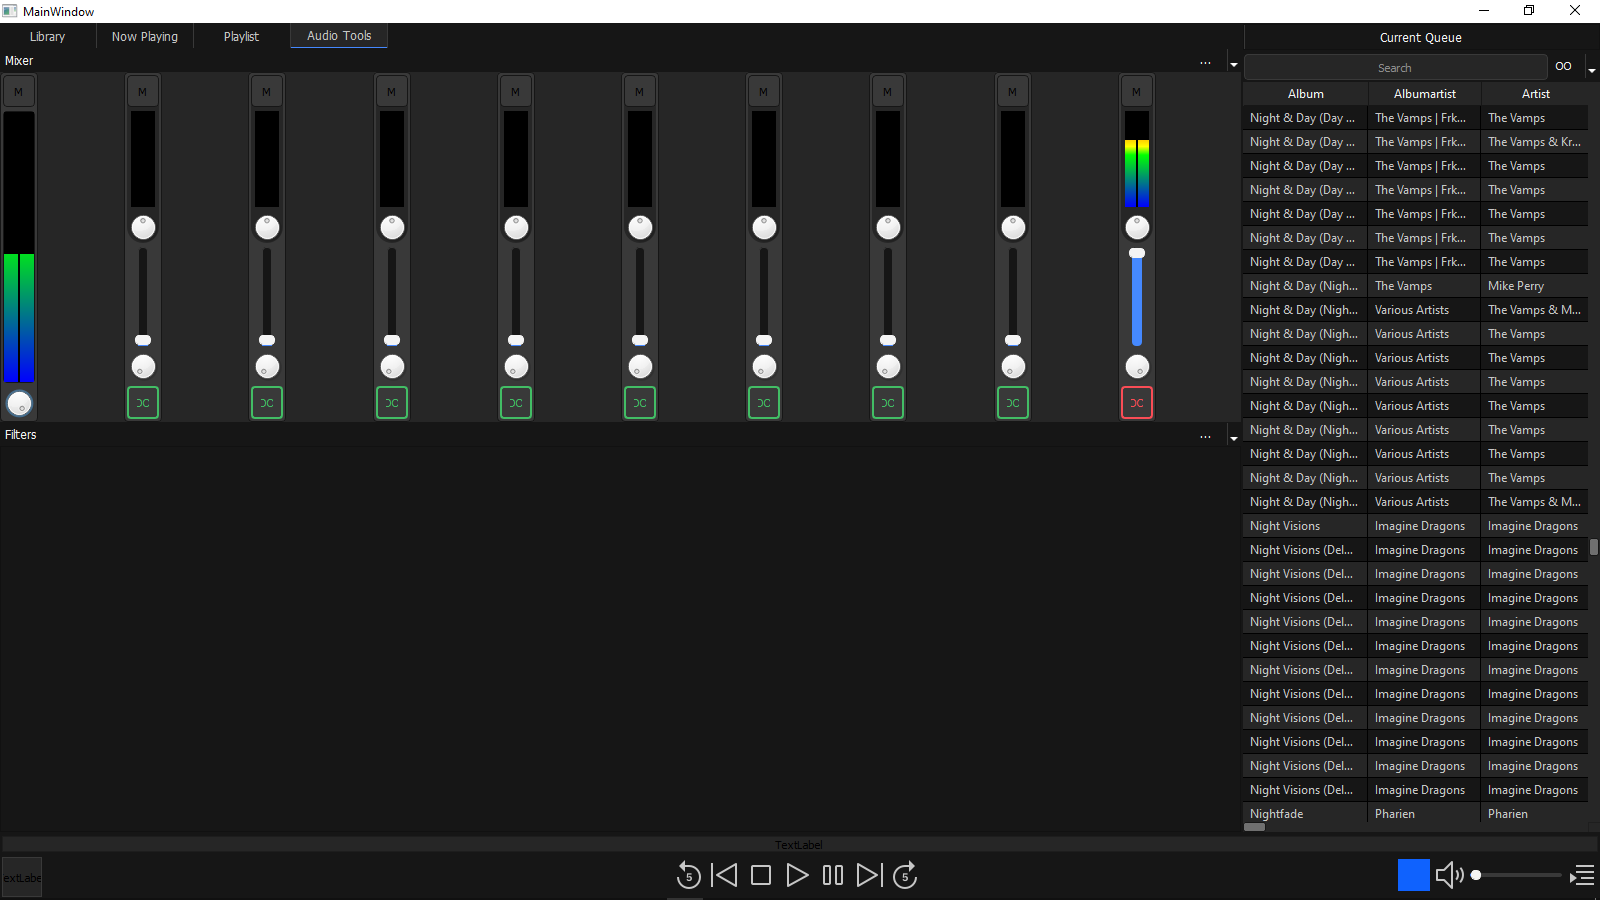
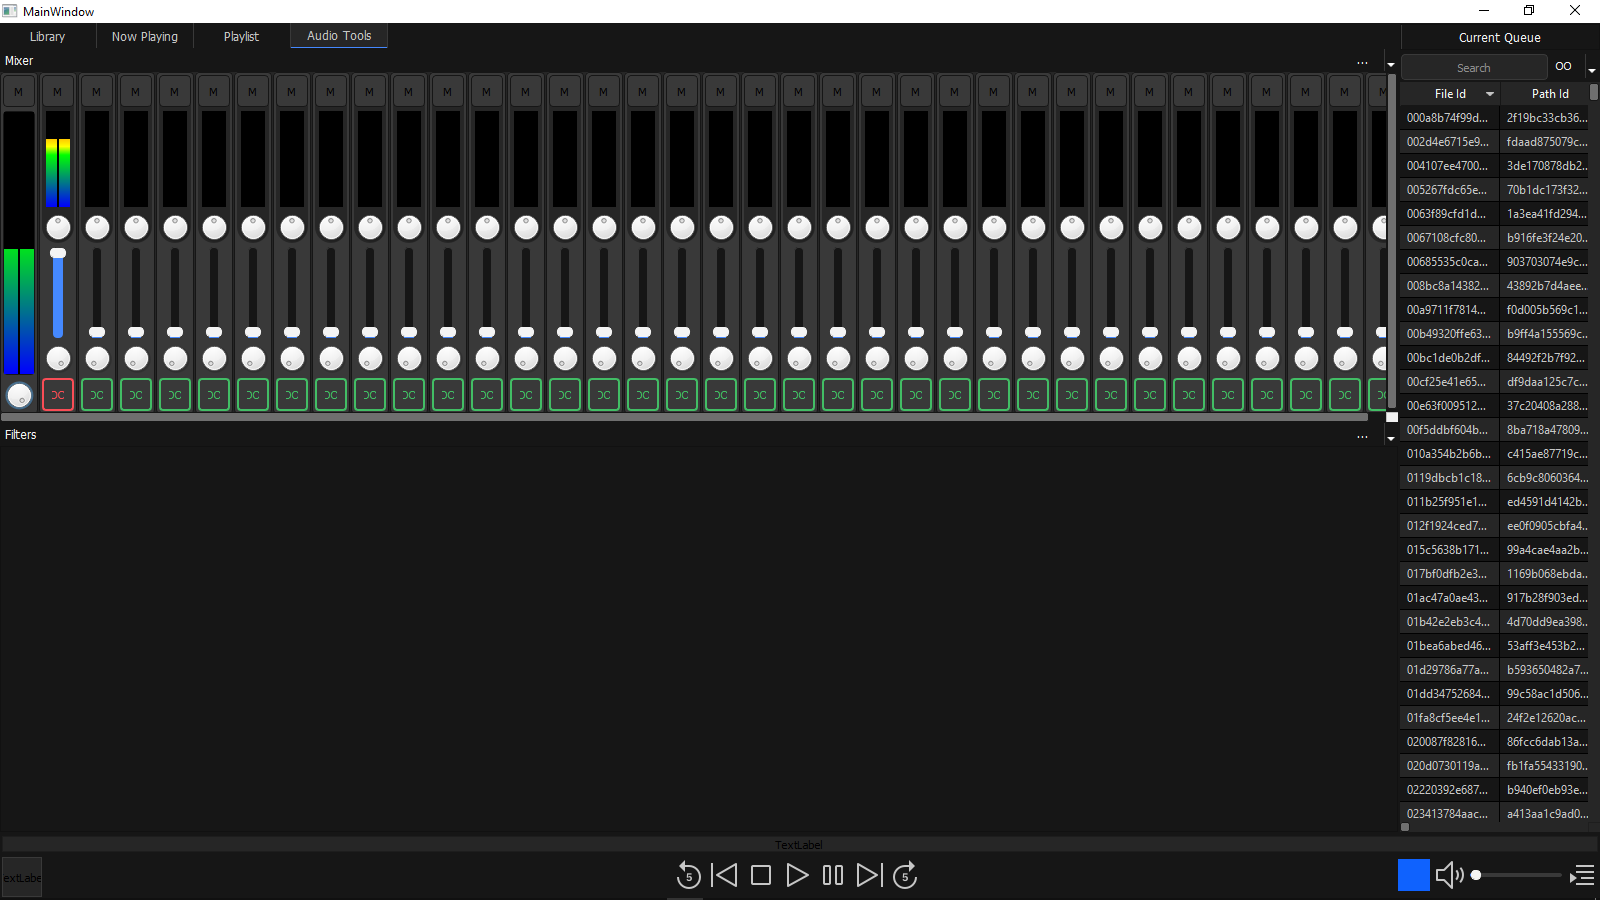
Chages to DSP, added a mixer,

Changed region(s): [[0.0, 0.0311, 1.0, 0.9333]]

diff --git a/apollo/dsp/plugins/apollo_mixer.py b/apollo/dsp/plugins/apollo_mixer.py
@@ -313,105 +313,3 @@ class ApolloAudioMixer:
                                   premix = MixerChannel.apollo_DIAL_ATOL_masterCH_vol_prevmix,
                                   postmix = MixerChannel.apollo_VSLD_ATOL_masterCH_vol_ctrl)
             Processor.SetMeterCallback(MixerChannel.Painter)
-
-
-class BaseProcessor:
-    """
-    Base class for audio processing plugins
-    """
-    def __init__(self):
-        """Constructor"""
-        self.MasterInput = None
-
-    def SetMeterCallback(self, Call: callable):
-        """
-        Assigns a callback for the VUmeter to draw the Amp peaks
-        """
-        self.PeakAmp.setFunction(Call)
-
-    def processor(self):
-        """
-        Processing block of the Master filter and returns the output stream
-        """
-        if self.MasterInput == None:
-            raise TypeError("Variable Of type Pyo.Input Expected but got None")
-
-        # Inits the Previous Processing block
-        self.Processor = pyo.Sine(0)
-
-        # Inits the switch to use for bypassing between original and processed signal
-        self.Switch = pyo.Selector([self.MasterInput, self.Processor], 0)
-
-        # inits the Paning Filter for the Audio
-        self.Output = pyo.Pan(self.Switch)
-
-        # inits the peakamp that will be used to monitor the audio amplitude
-        self.PeakAmp = pyo.PeakAmp(self.Output)
-
-        return self.Output
-
-    def Bypass(self, Bool = True):
-        """
-        Inits the switch to use for bypassing between original and processed signal
-        """
-
-        if Bool:
-            # will Bypass the processor
-            self.Switch.setVoice(0)
-            self.Processor.stop()
-        else:
-            # will not Bypass The Processor
-            self.Switch.setVoice(1)
-            self.Processor.play()
-
-    def SetOutputMul(self, Val: int):
-        """
-        sets the amplitude for the processor swith
-        """
-        self.Switch.setMul((Val / 100) + 0.0001)
-
-    def SetInputMul(self, Val: int):
-        """
-        sets the amplitude for the input
-        """
-        self.MasterInput.setMul((Val / 100) + 0.0001)
-
-    def SetPan(self, Val: int):
-        """
-        sets the pan for the filter
-        """
-        self.Output.setPan((Val / 100) + 0.0001)
-
-    def ReplaceInput(self, Input):
-        pass
-
-    def BindMixerUI(self, bypass, pan, premix, postmix):
-        """
-        Binds the Internal Function to UI Objects
-        """
-        bypass.setChecked(True)
-        pan.setValue(int(self.Output.pan * 100))
-        premix.setValue(int(self.MasterInput.mul * 100))
-        postmix.setValue(int(self.Switch.mul * 100))
-
-        bypass.toggled.connect(self.Bypass)
-        pan.valueChanged.connect(self.SetPan)
-        premix.valueChanged.connect(self.SetInputMul)
-        postmix.valueChanged.connect(self.SetOutputMul)
-
-class MasterProcessor(BaseProcessor):
-    """
-    Master Processor that will accept the Input when all the processing is done
-    """
-    def __init__(self, Input):
-        """
-        Inits the Input Stream
-        """
-        super().__init__()
-        self.MasterInput = Input
-
-
-if __name__ == "__main__":
-    from apollo.app.apollo_main import ApolloExecute
-    app = ApolloExecute()
-    app.Execute()

diff --git a/apollo/dsp/dsp_main.py b/apollo/dsp/dsp_main.py
@@ -3,7 +3,8 @@ from PyQt5 import QtWidgets, QtCore, QtGui
 
 import sys, os, time, math
 
-from apollo.dsp.plugins.SignalProcessors import MasterProcessor, VUMeter
+from apollo.dsp.plugins.SignalProcessors import MasterProcessor
+from apollo.dsp.plugins.apollo_mixer import ApolloAudioMixer
 
 class ComputeGraph:
     """"""
@@ -43,7 +44,10 @@ class ApolloDSP:
             from apollo.app.apollo_TabBindings import ApolloTabBindings
             self.UI = ApolloTabBindings()
 
+        self.Mixer = ApolloAudioMixer(self.UI.apollo_WDG_ATOL_mixer)
+        self.Mixer.create_EmptyMixerChannels(35)
         self.StartServer()
+
         self.MasterProcessorBindings(pyo.Noise())
         self.ButtonBindings()
 
@@ -53,8 +57,7 @@ class ApolloDSP:
         """
         self.MasterProcessor = MasterProcessor(Input)
         self.MasterProcessor.processor().out()
-        self.MasterProcessor.SetMixer_Channel(self.UI.apollo_WDG_ATOL_mixer)
-
+        self.Mixer.bind_ProcessortoMixer(self.MasterProcessor, 0)
 
     def ButtonBindings(self):
         self.UI.apollo_DIAL_ATOL_masterVU_chnl.valueChanged.connect(lambda x: self.Server.setAmp(x /1000))
@@ -82,29 +85,10 @@ class ApolloDSP:
         if not self.Server.start():
             raise ConnectionError("Audio Server Failed To start")
 
-        # sets tehe VU meter for the server Amp
-        MasterVU_Meter = VUMeter(Meter = self.UI.apollo_PIXLB_ATOL_masterVU_VU)
-
-        # adds an scaling factor for displaying the amplitude
-        MasterVU_Meter.scale = 100
-
-        # binds the server callback to the meter painter
-        self.Server.setMeterCallable(MasterVU_Meter.Painter)
-
         self.Server.setAmp(kwargs.get("amp", 0.000))
+        self.Mixer.connect_ServerChannel(self.Server, self.UI.apollo_PIXLB_ATOL_masterVU_VU)
         self.UI.apollo_DIAL_ATOL_masterVU_chnl.setValue(kwargs.get("amp", 0.001))
 
-        try:
-            self.MasterVU_Meter1 = VUMeter(Parent = self.UI.apollo_WDG_ATOL_mixer)
-            self.MasterVU_Meter2 = VUMeter(Parent = self.UI.apollo_WDG_ATOL_mixer)
-            self.MasterVU_Meter3 = VUMeter(Parent = self.UI.apollo_WDG_ATOL_mixer)
-            self.MasterVU_Meter4 = VUMeter(Parent = self.UI.apollo_WDG_ATOL_mixer)
-            self.MasterVU_Meter5 = VUMeter(Parent = self.UI.apollo_WDG_ATOL_mixer)
-            self.MasterVU_Meter6 = VUMeter(Parent = self.UI.apollo_WDG_ATOL_mixer)
-            self.MasterVU_Meter7 = VUMeter(Parent = self.UI.apollo_WDG_ATOL_mixer)
-            self.MasterVU_Meter8 = VUMeter(Parent = self.UI.apollo_WDG_ATOL_mixer)
-        except Exception as e:
-            print(e)
 
     def StopServer(self):
         """

diff --git a/apollo/gui/apollo_ui.py b/apollo/gui/apollo_ui.py
@@ -1,6 +1,6 @@
 # -*- coding: utf-8 -*-
 
-# Form implementation generated from reading ui file 'C:/Users/Ommar/AppData/Local/Temp/apollo_uitwNbCf.ui'
+# Form implementation generated from reading ui file 'C:/Users/Ommar/AppData/Local/Temp/apollo_uiubtjzc.ui'
 #
 # Created by: PyQt5 UI code generator 5.15.2
 #
@@ -404,8 +404,9 @@ class Ui_MainWindow(object):
         self.apollo_SCAR_mixer.setSizePolicy(sizePolicy)
         self.apollo_SCAR_mixer.setMinimumSize(QtCore.QSize(0, 350))
         self.apollo_SCAR_mixer.setMaximumSize(QtCore.QSize(16777215, 350))
+        self.apollo_SCAR_mixer.setSizeAdjustPolicy(QtWidgets.QAbstractScrollArea.AdjustToContents)
         self.apollo_SCAR_mixer.setWidgetResizable(True)
-        self.apollo_SCAR_mixer.setAlignment(QtCore.Qt.AlignCenter)
+        self.apollo_SCAR_mixer.setAlignment(QtCore.Qt.AlignLeading|QtCore.Qt.AlignLeft|QtCore.Qt.AlignVCenter)
         self.apollo_SCAR_mixer.setObjectName("apollo_SCAR_mixer")
         self.apollo_WDG_ATOL_mixer = QtWidgets.QWidget()
         self.apollo_WDG_ATOL_mixer.setGeometry(QtCore.QRect(0, 0, 596, 348))
@@ -700,7 +701,7 @@ class Ui_MainWindow(object):
         MainWindow.setCentralWidget(self.centralwidget)
 
         self.retranslateUi(MainWindow)
-        self.apollo_TABWG_main.setCurrentIndex(3)
+        self.apollo_TABWG_main.setCurrentIndex(0)
         self.apollo_SKWG_LBT_main.setCurrentIndex(1)
         QtCore.QMetaObject.connectSlotsByName(MainWindow)
 
